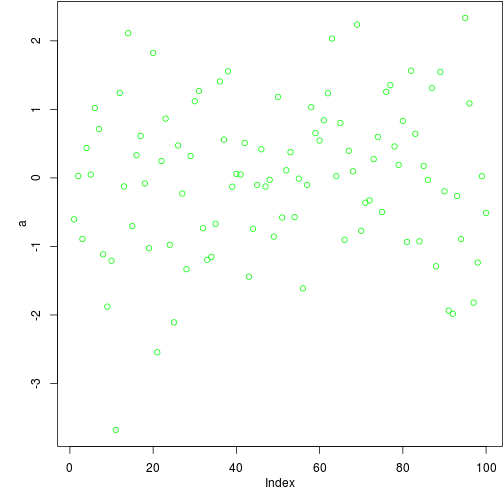
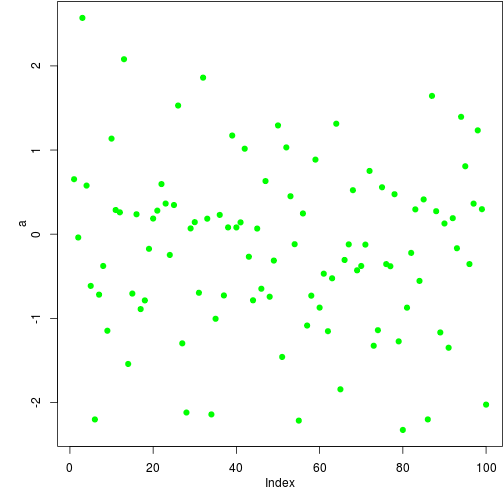
update new post

diff --git a/_site/about.html b/_site/about.html
@@ -145,7 +145,10 @@
 <div class="row">
   <div class="span12">
     
-<p>This page shows you all the instructions on how to contribute to Vistat. Before you get started, you need to fork the <a href="https://github.com/supstat/vistat">supstat/vistat</a> repository to your own Github account (click the <code>Fork</code> button). You are assumed to have basic knowledge of GIT and R.</p>
+<p>This blog is an open source project. You cannot only use the source code of this blog and use it for other purposes but you also can contribute.</p>
+
+<h2 id="contribute">Contribute</h2>
+<p>As this blog is stored on Github and open source, you can either contribute to this blog or use it for your personal belongings on another domain (e.g. through Github page). For both ways you get started, you need to fork the <a href="https://github.com/magnusmetz/magnusmetz.github.io">magnusmetz.github.io</a> repository to your own Github account (click the <code>Fork</code> button). You are assumed to have basic knowledge of GIT and R.</p>
 
 <h2 id="new-article">New Article</h2>
 
@@ -159,13 +162,13 @@
 
 <h2 id="edit-an-article">Edit an Article</h2>
 
-<p>There are a few fields in the header such as <code>author</code> and <code>tags</code>; if you have multiple entries, use the comma to separate them, e.g. <code>author: [taiyun, yihui]</code>. Note all authors need to put their information in <a href="https://github.com/supstat/vistat/blob/gh-pages/_config.yml"><code>_config.yml</code></a>, and input the author id&#8217;s to the <code>author</code> field (the same applies to reviewers).</p>
+<p>There are a few fields in the header such as <code>author</code> and <code>tags</code>; if you have multiple entries, use the comma to separate them, e.g. <code>author: [taiyun, yihui]</code>. Note all authors need to put their information in <a href="https://github.com/magnusmetz/magnusmetz.github.io/blob/master/_config.yml"><code>_config.yml</code></a>, and input the author id&#8217;s to the <code>author</code> field (the same applies to reviewers).</p>
 
 <p>You can write math in the LaTeX syntax, e.g. <code>$$\alpha+\beta$$</code> in a paragraph renders inline like <script type="math/tex">\alpha+\beta</script>, and <code>$$f(x)=\frac{1}{\sqrt{2\pi}}e^{-x^2/2}$$</code> in a separate paragraph renders the display style</p>
 
 <script type="math/tex; mode=display">f(x)=\frac{1}{\sqrt{2\pi}}e^{-x^2/2}</script>
 
-<p>If you want to generate animations, set <code>animation: true</code> in the preamble of the article and use the chunk option <code>fig.show='animate'</code> in the chunk header (<a href="https://github.com/supstat/vistat/blob/gh-pages/_source/2012-11-06-brownian-motion-with-r.Rmd">example</a>).</p>
+<p>If you want to generate animations, set <code>animation: true</code> in the preamble of the article and use the chunk option <code>fig.show='animate'</code> in the chunk header (<a href="https://github.com/magnusmetz/magnusmetz.github.io/blob/master/_source/2012-11-06-brownian-motion-with-r.Rmd">example</a>).</p>
 
 <h2 id="compilation">Compilation</h2>
 
@@ -183,9 +186,9 @@
 
 <p>If you want to preview your articles locally (<a href="http://localhost:4000">http://localhost:4000</a>), you can run</p>
 
-<div class="highlight"><pre><code class="bash">rake preview</code></pre></div>
+<div class="highlight"><pre><code class="bash">jekyll serve</code></pre></div>
 
-<p>which is basically a wrapper to <code>jekyll --server --auto</code>. Of course you need to install Jekyll first.</p>
+<p>Of course you need to install Jekyll first.</p>
 
 <h2 id="submission">Submission</h2>
 
@@ -195,11 +198,13 @@
 
 <h2 id="reviewers">Reviewers</h2>
 
-<p>Everyone is welcome to become a reviewer for Vistat. Reviews are public in the pull requests on Github. There are no <em>anonymous</em> reviewers here.</p>
+<p>Everyone is welcome to become a reviewer for this blog. Reviews are public in the pull requests on Github. There are no <em>anonymous</em> reviewers here.</p>
 
-<h2 id="contributors">Contributors</h2>
+<!-- ## Contributors
 
-<p>We have had 0 contributors so far:</p>
+We have had 0 contributors so far:
+
+  -->
 
 
   </div>

diff --git a/_site/index.html b/_site/index.html
@@ -149,7 +149,7 @@
 
 <p><img src="http://i.imgur.com/4staRNH.png" alt="via xkcd" /></p>
 
-<p>Vistat aims to provide <em>working</em> recipes for statistical graphics by building them from source. The website is based on Github/Jekyll, and graphs are generated dynamically through the R package <a href="http://yihui.name/knitr"><strong>knitr</strong></a>, hence reproducibility is guaranteed, and readers can see the source code at the same time.</p>
+<p>This blog aims to provide knowledge for statistical graphics by building them from source and further statistical applications with R. It serves as a personal reference book of interesting articles from <a href="http://vis.supstat.com/">vistat</a> as well as a documentation of personal projects in R. The website is based on Github/Jekyll, and graphs and analyses are generated dynamically through the R package <a href="http://yihui.name/knitr"><strong>knitr</strong></a>, hence reproducibility is guaranteed, and readers can see the source code at the same time.</p>
 
 <h2 id="latest-10-posts">Latest 10 posts</h2>
 
@@ -177,10 +177,6 @@
   
   <li><a href="archive.html">Read More...</a></li>
 </ul>
-
-<h2 id="how-to-contribute">How to contribute</h2>
-
-<p>You can <a href="https://github.com/supstat/vistat">fork the repository</a> on Github, add your article to the <code>_source</code> directory and submit a pull request to us. We will run your code and upload images. For more details, see <a href="about.html">about</a>.</p>
 
 <h2 id="copyright">Copyright</h2>
 

diff --git a/_site/feed/index.html b/_site/feed/index.html
@@ -7,7 +7,7 @@
     <title>Magnus Metz</title>
     <atom:link href="http://magnusmetz.github.io/feed/" rel="self" type="application/rss+xml" />
     <link>http://magnusmetz.github.io</link>
-    <lastBuildDate>2014-05-14T01:46:07+02:00</lastBuildDate>
+    <lastBuildDate>2014-05-14T02:34:33+02:00</lastBuildDate>
     <webMaster>metz.magnus@gmail.com</webMaster>
     
     <item>

diff --git a/_posts/2014-05-13-new-post.md b/_posts/2014-05-13-new-post.md
@@ -13,7 +13,7 @@ This site is just a simple test.
 
 {% highlight r %}
 a <- rnorm(100)
-plot(a, col = "green")
+plot(a, col = "green", pch = 19)
 {% endhighlight %}
 
 ![plot of chunk unnamed-chunk-1](/figures/2014-05-13-new-post/unnamed-chunk-1.png) 
